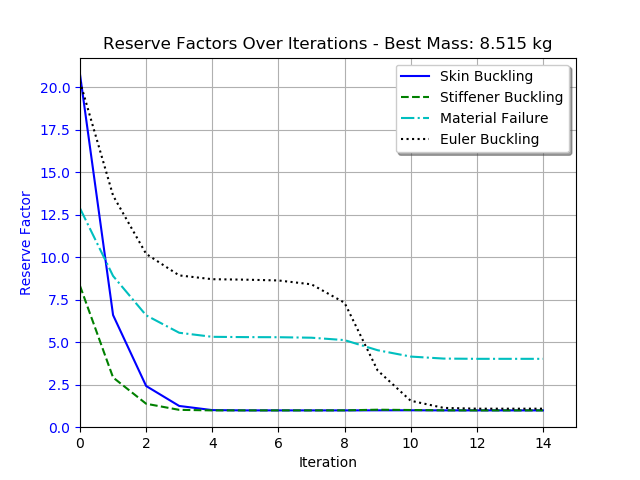
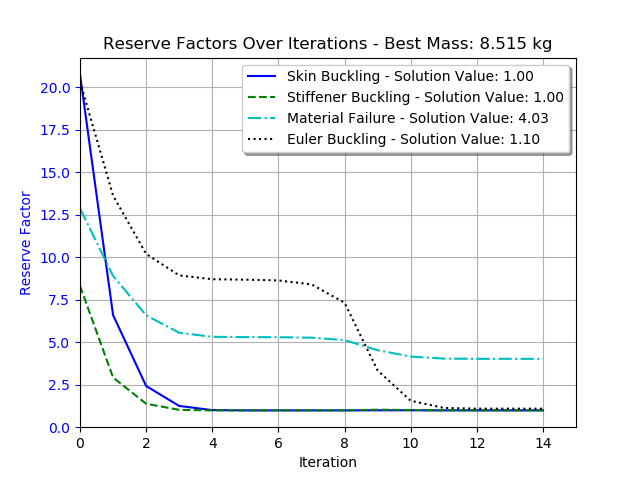
Add solution values to graph legends.

Changed region(s): [[0.375, 0.125, 0.9062, 0.3438]]

diff --git a/panel2.py b/panel2.py
@@ -179,9 +179,9 @@ minor_ticks2 = np.arange(500, 2000, 50)
 
 # Plot graphs
 plt.figure(1)
-plt.plot(bstRecordAdjust, 'b-', label='bst cm')
-plt.plot(tstRecord, 'g--', label='tst mm')
-plt.plot(tskRecord, 'c-.', label='tsk mm')
+plt.plot(bstRecordAdjust, 'b-', label='bst cm - Solution: ' + str(format(bstRecordAdjust[-1], '.2f')) + 'cm')
+plt.plot(tstRecord, 'g--', label='tst mm - Solution: ' + str(format(tstRecord[-1], '.2f')) + 'mm')
+plt.plot(tskRecord, 'c-.', label='tsk mm - Solution: ' + str(format(tskRecord[-1], '.2f')) + 'mm')
 plt.xlabel('Iteration')
 plt.ylabel('Value Attempt', color='b')
 plt.yticks(major_ticks1)
@@ -194,7 +194,7 @@ plt.savefig('dimensions.png')
 
 
 plt.figure(2)
-plt.plot(massRecord, 'r-', label='Optimisation Mass Result')
+plt.plot(massRecord, 'r-', label='Optimisation Mass - Solution Minimum: ' + str(format(mass(res['x']), '.3f')) + 'kg')
 plt.xlabel('Iteration')
 plt.ylabel('Mass (kg)', color='r')
 # plt.yticks(major_ticks1)
@@ -206,10 +206,10 @@ plt.title("Change of Unit Mass Over Iterations. Best Mass: " + str(format(mass(r
 plt.savefig('mass.png')
 
 plt.figure(3)
-plt.plot(rsfSkinRecord, 'b-', label='Skin Buckling')
-plt.plot(rsfStiffRecord, 'g--', label='Stiffener Buckling')
-plt.plot(rsfMatRecord, 'c-.', label='Material Failure')
-plt.plot(rsfEulerRecord, 'k:', label='Euler Buckling')
+plt.plot(rsfSkinRecord, 'b-', label='Skin Buckling - Solution Value: ' + str(format(rsfSkinRecord[-1], '.2f')))
+plt.plot(rsfStiffRecord, 'g--', label='Stiffener Buckling - Solution Value: ' + str(format(rsfStiffRecord[-1], '.2f')))
+plt.plot(rsfMatRecord, 'c-.', label='Material Failure - Solution Value: ' + str(format(rsfMatRecord[-1], '.2f')))
+plt.plot(rsfEulerRecord, 'k:', label='Euler Buckling - Solution Value: ' + str(format(rsfEulerRecord[-1], '.2f')))
 plt.xlabel('Iteration')
 plt.xlim([0, len(rsfStiffRecord)])
 plt.ylabel('Reserve Factor', color='b')
